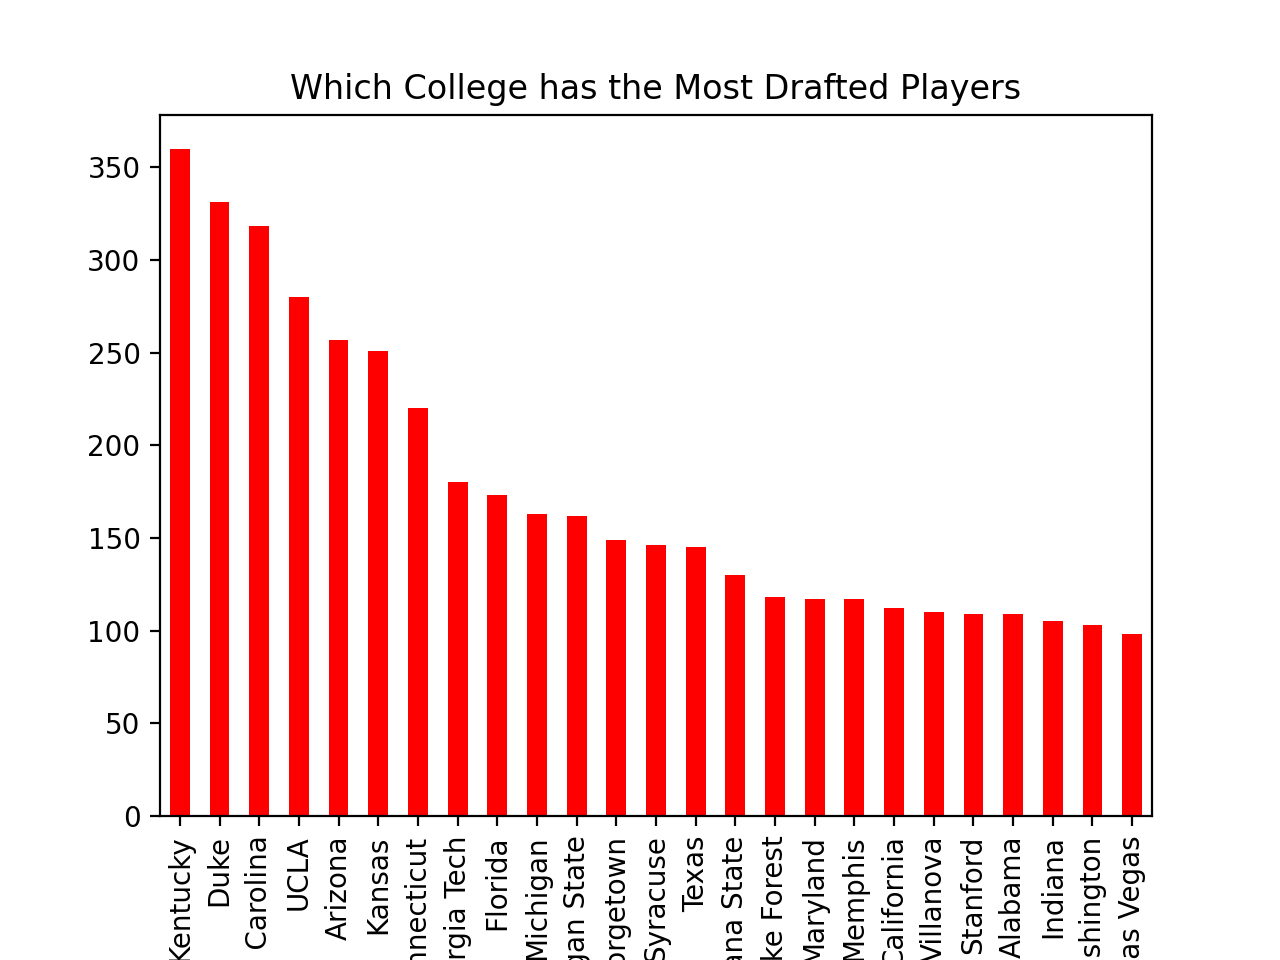
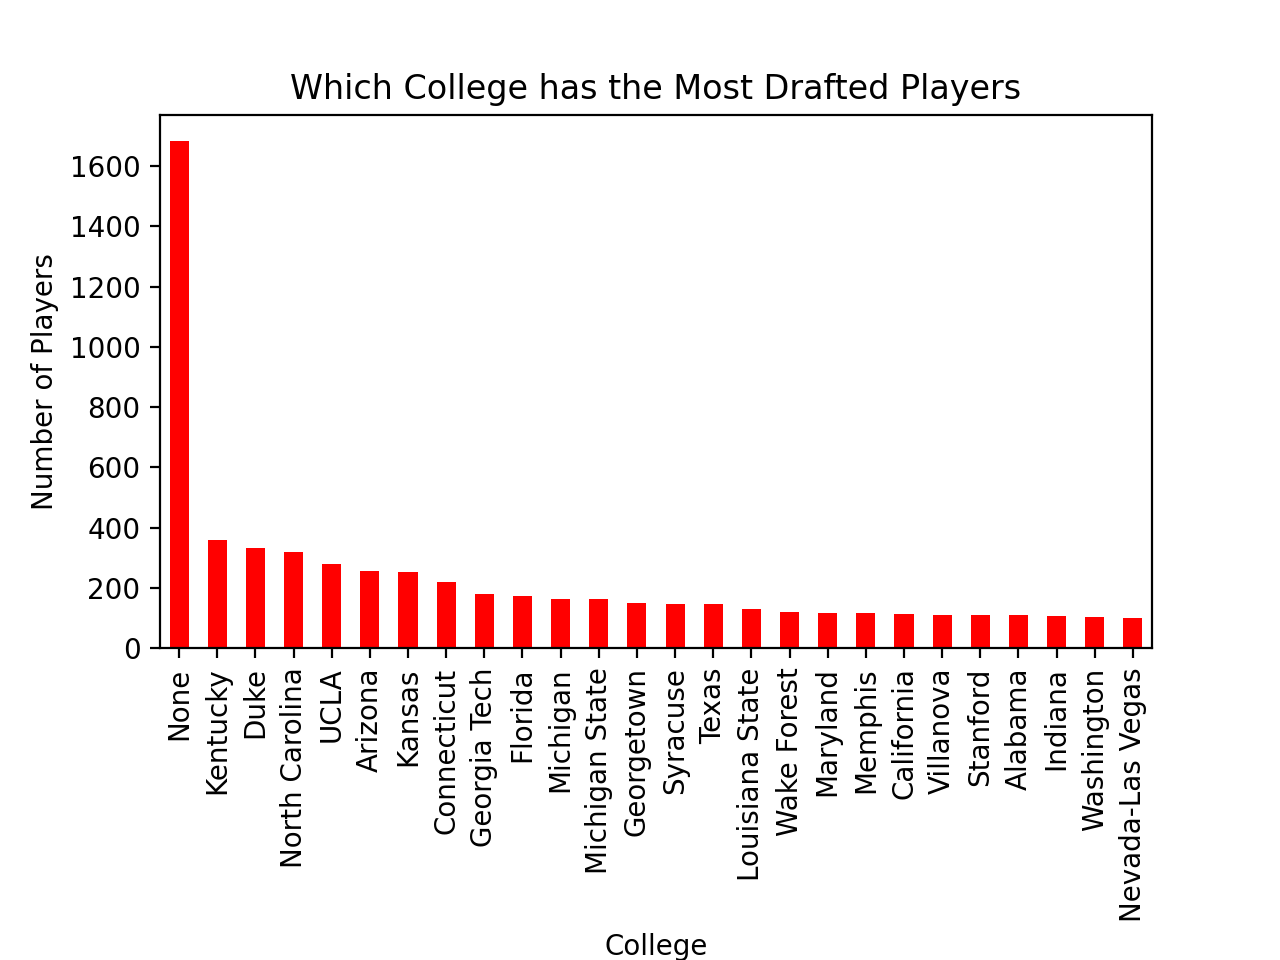
Final Admissions to Project GitHub

diff --git a/src/q4/data.py b/src/q4/data.py
@@ -1,10 +1,7 @@
 import pandas as pd
 import matplotlib.pyplot as plt
 plt.close('all')
-pd.set_option('display.max_columns', 500)
-plt.gcf().subplots_adjust(bottom=0.15)
 df = pd.read_csv('../all_seasons.csv')
-# NOTE: Average height is 6'7", or 79", or 200.8 cm.
 above = df['player_height']>=200.8
 df1 = df[above]
 df2 = df1[['team_abbreviation']]
@@ -14,7 +11,7 @@ graph = df4.plot(
     kind='bar',
     x='team_abbreviation',
     y='count',
-    title='Which Team has Players Taller than 200.8 cm',
+    title='Which Team has Players Taller than the Average Height of 200.8 cm',
     color='red'
 )
 graph.set_xlabel("Team (Abbreviation)")

diff --git a/src/q5/data.py b/src/q5/data.py
@@ -3,5 +3,7 @@ import matplotlib.pyplot as plt
 plt.close('all')
 data = {'Height': ['Tall', 'Short'],'Points': [7.730298668585823, 8.520619294791482], 'Assists': [1.1263404102195034, 2.473080365133345]}
 df = pd.DataFrame(data, columns = ['Height', 'Points', 'Assists'])
-graph = df.plot.bar(color=['red', 'blue'], title="Epic Graph\nAnother Line! Whoa", x='Height')
+graph = df.plot.bar(color=['red', 'blue'], title="Shorter Players vs Taller Players Score More Points and Assists", x='Height')
+graph.set_xlabel("Height (Above or Below Average)")
+graph.set_ylabel("Number of Points And Assists")
 plt.show()

diff --git a/src/q6/data.py b/src/q6/data.py
@@ -1,0 +1,14 @@
+import pandas as pd
+import matplotlib.pyplot as plt
+plt.close('all')
+data = {
+    'Draft Status': ['Drafted', 'Undrafted'],
+    'Points': [8.859373, 4.689893],
+    'Rebounds': [3.843664, 2.230066], 
+    'Assists': [1.921043, 1.240735]
+}
+df = pd.DataFrame(data, columns = ['Draft Status', 'Points', 'Rebounds', 'Assists'])
+graph = df.plot.bar(color=['red', 'blue', 'green'], title="Drafted vs Undrafted Players Average Points, Rebounds, and Assists", x='Draft Status')
+graph.set_xlabel("Draft Status")
+graph.set_ylabel("Number of Points, Rebounds, or Assists")
+plt.show()

diff --git a/src/q2/data.py b/src/q2/data.py
@@ -1,11 +1,12 @@
 import pandas as pd
 import matplotlib.pyplot as plt
 plt.close('all')
-plt.gcf().subplots_adjust(bottom=0.15)
 df = pd.read_csv('../all_seasons.csv')
 df1 = df[['college']]
 df2 = df1['college'].value_counts()
 df3 = df2.head(26)
 df4 = df3.iloc[1:]
-df3.plot(kind='bar', x='college', y='count', title='Which College has the Most Drafted Players', color='red')
+graph = df3.plot(kind='bar', x='college', y='count', title='Which College has the Most Drafted Players', color='red')
+graph.set_xlabel("College")
+graph.set_ylabel("Number of Players")
 plt.show()

diff --git a/src/q6/data1.py b/src/q6/data1.py
@@ -1,0 +1,18 @@
+import pandas as pd
+df = pd.read_csv('../all_seasons.csv')
+drafted = df['draft_number']!='Undrafted'
+undrafted = df['draft_number']=='Undrafted'
+df1 = df[drafted]
+df2 = df1[['pts']]
+df_pts = df2.mean()
+df3 = df1[['reb']]
+df_reb = df3.mean()
+df4 = df1[['ast']]
+df_ast = df4.mean()
+df5 = df[undrafted]
+df6 = df5[['pts']]
+df1_pts = df6.mean()
+df7 = df5[['reb']]
+df1_reb = df7.mean()
+df8 = df5[['ast']]
+df1_ast = df8.mean()

diff --git a/src/q5/data2.py b/src/q5/data2.py
@@ -1,12 +1,8 @@
 import pandas as pd
-pd.set_option('display.max_columns', 500)
 dfs = pd.read_csv('../all_seasons.csv')
 short = dfs['player_height']<=200.8
-# NOTE: This DataFrame contains the data for those below average height in the NBA.
 dfs1 = dfs[short]
 dfs2 = dfs1[['pts']]
 dfs3 = dfs1[['ast']]
 dfs4 = dfs2['pts'].mean()
 dfs5 = dfs3['ast'].mean()
-print(dfs4)
-print(dfs5)

diff --git a/src/q5/data1.py b/src/q5/data1.py
@@ -1,12 +1,8 @@
 import pandas as pd
-pd.set_option('display.max_columns', 500)
 dft = pd.read_csv('../all_seasons.csv')
 tall = dft['player_height']>=200.8
-# NOTE: This DataFrame contains the data for those above average height in the NBA.
 dft1 = dft[tall]
 dft2 = dft1[['pts']]
 dft3 = dft1[['ast']]
 dft4 = dft2['pts'].mean()
 dft5 = dft3['ast'].mean()
-print(dft4)
-print(dft5)

diff --git a/src/q3/data.py b/src/q3/data.py
@@ -1,11 +1,7 @@
 import pandas as pd
 import matplotlib.pyplot as plt
 plt.close('all')
-pd.set_option('display.max_columns', 500)
-plt.gcf().subplots_adjust(bottom=0.15)
 df = pd.read_csv('../all_seasons.csv')
-print(df['pts'].mean())
-# NOTE: Average is 8.12648721399731 points or rounded 8 points.
 above = df['pts']>=15
 df1 = df[above]
 df2 = df1[['team_abbreviation']]

diff --git a/src/q1/data.py b/src/q1/data.py
@@ -1,8 +1,6 @@
 import pandas as pd
 import matplotlib.pyplot as plt
 plt.close('all')
-plt.subplots_adjust(left=0.3, right=0.9, bottom=0.3, top=0.9)
-plt.gcf().subplots_adjust(bottom=0.15)
 df = pd.read_csv('../all_seasons.csv')
 first_overall = df['draft_number']=='1'
 df1 = df[first_overall]
